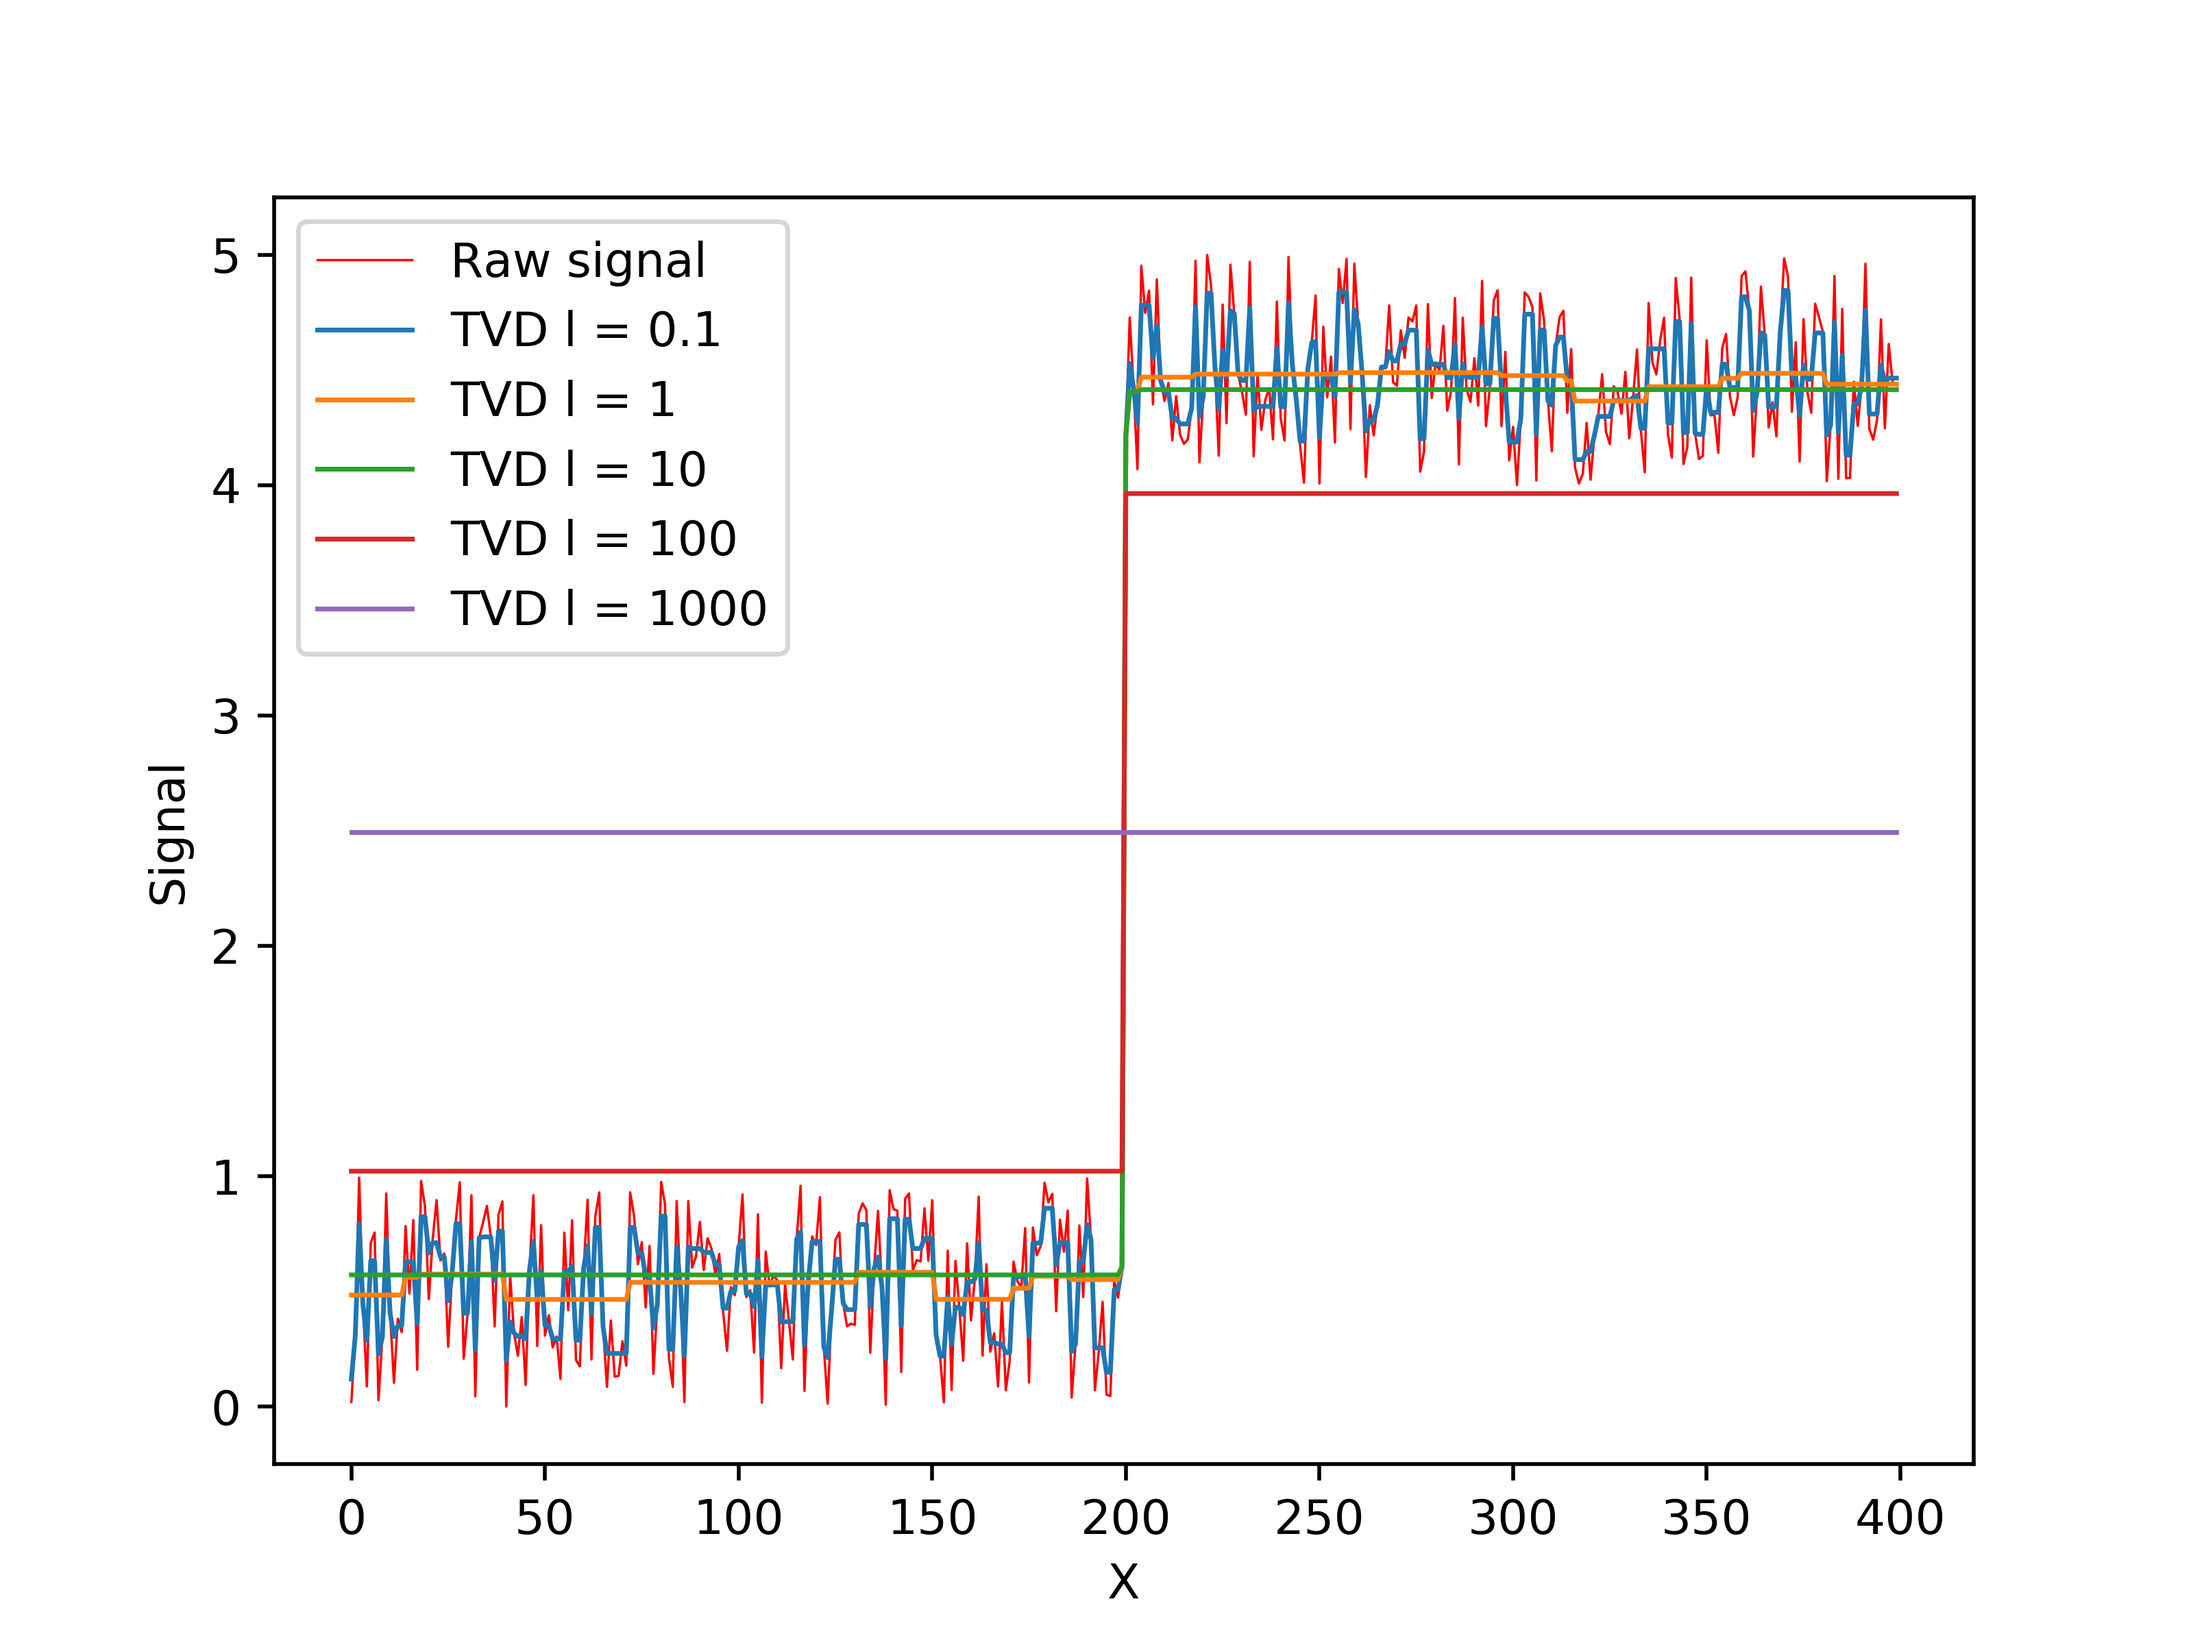
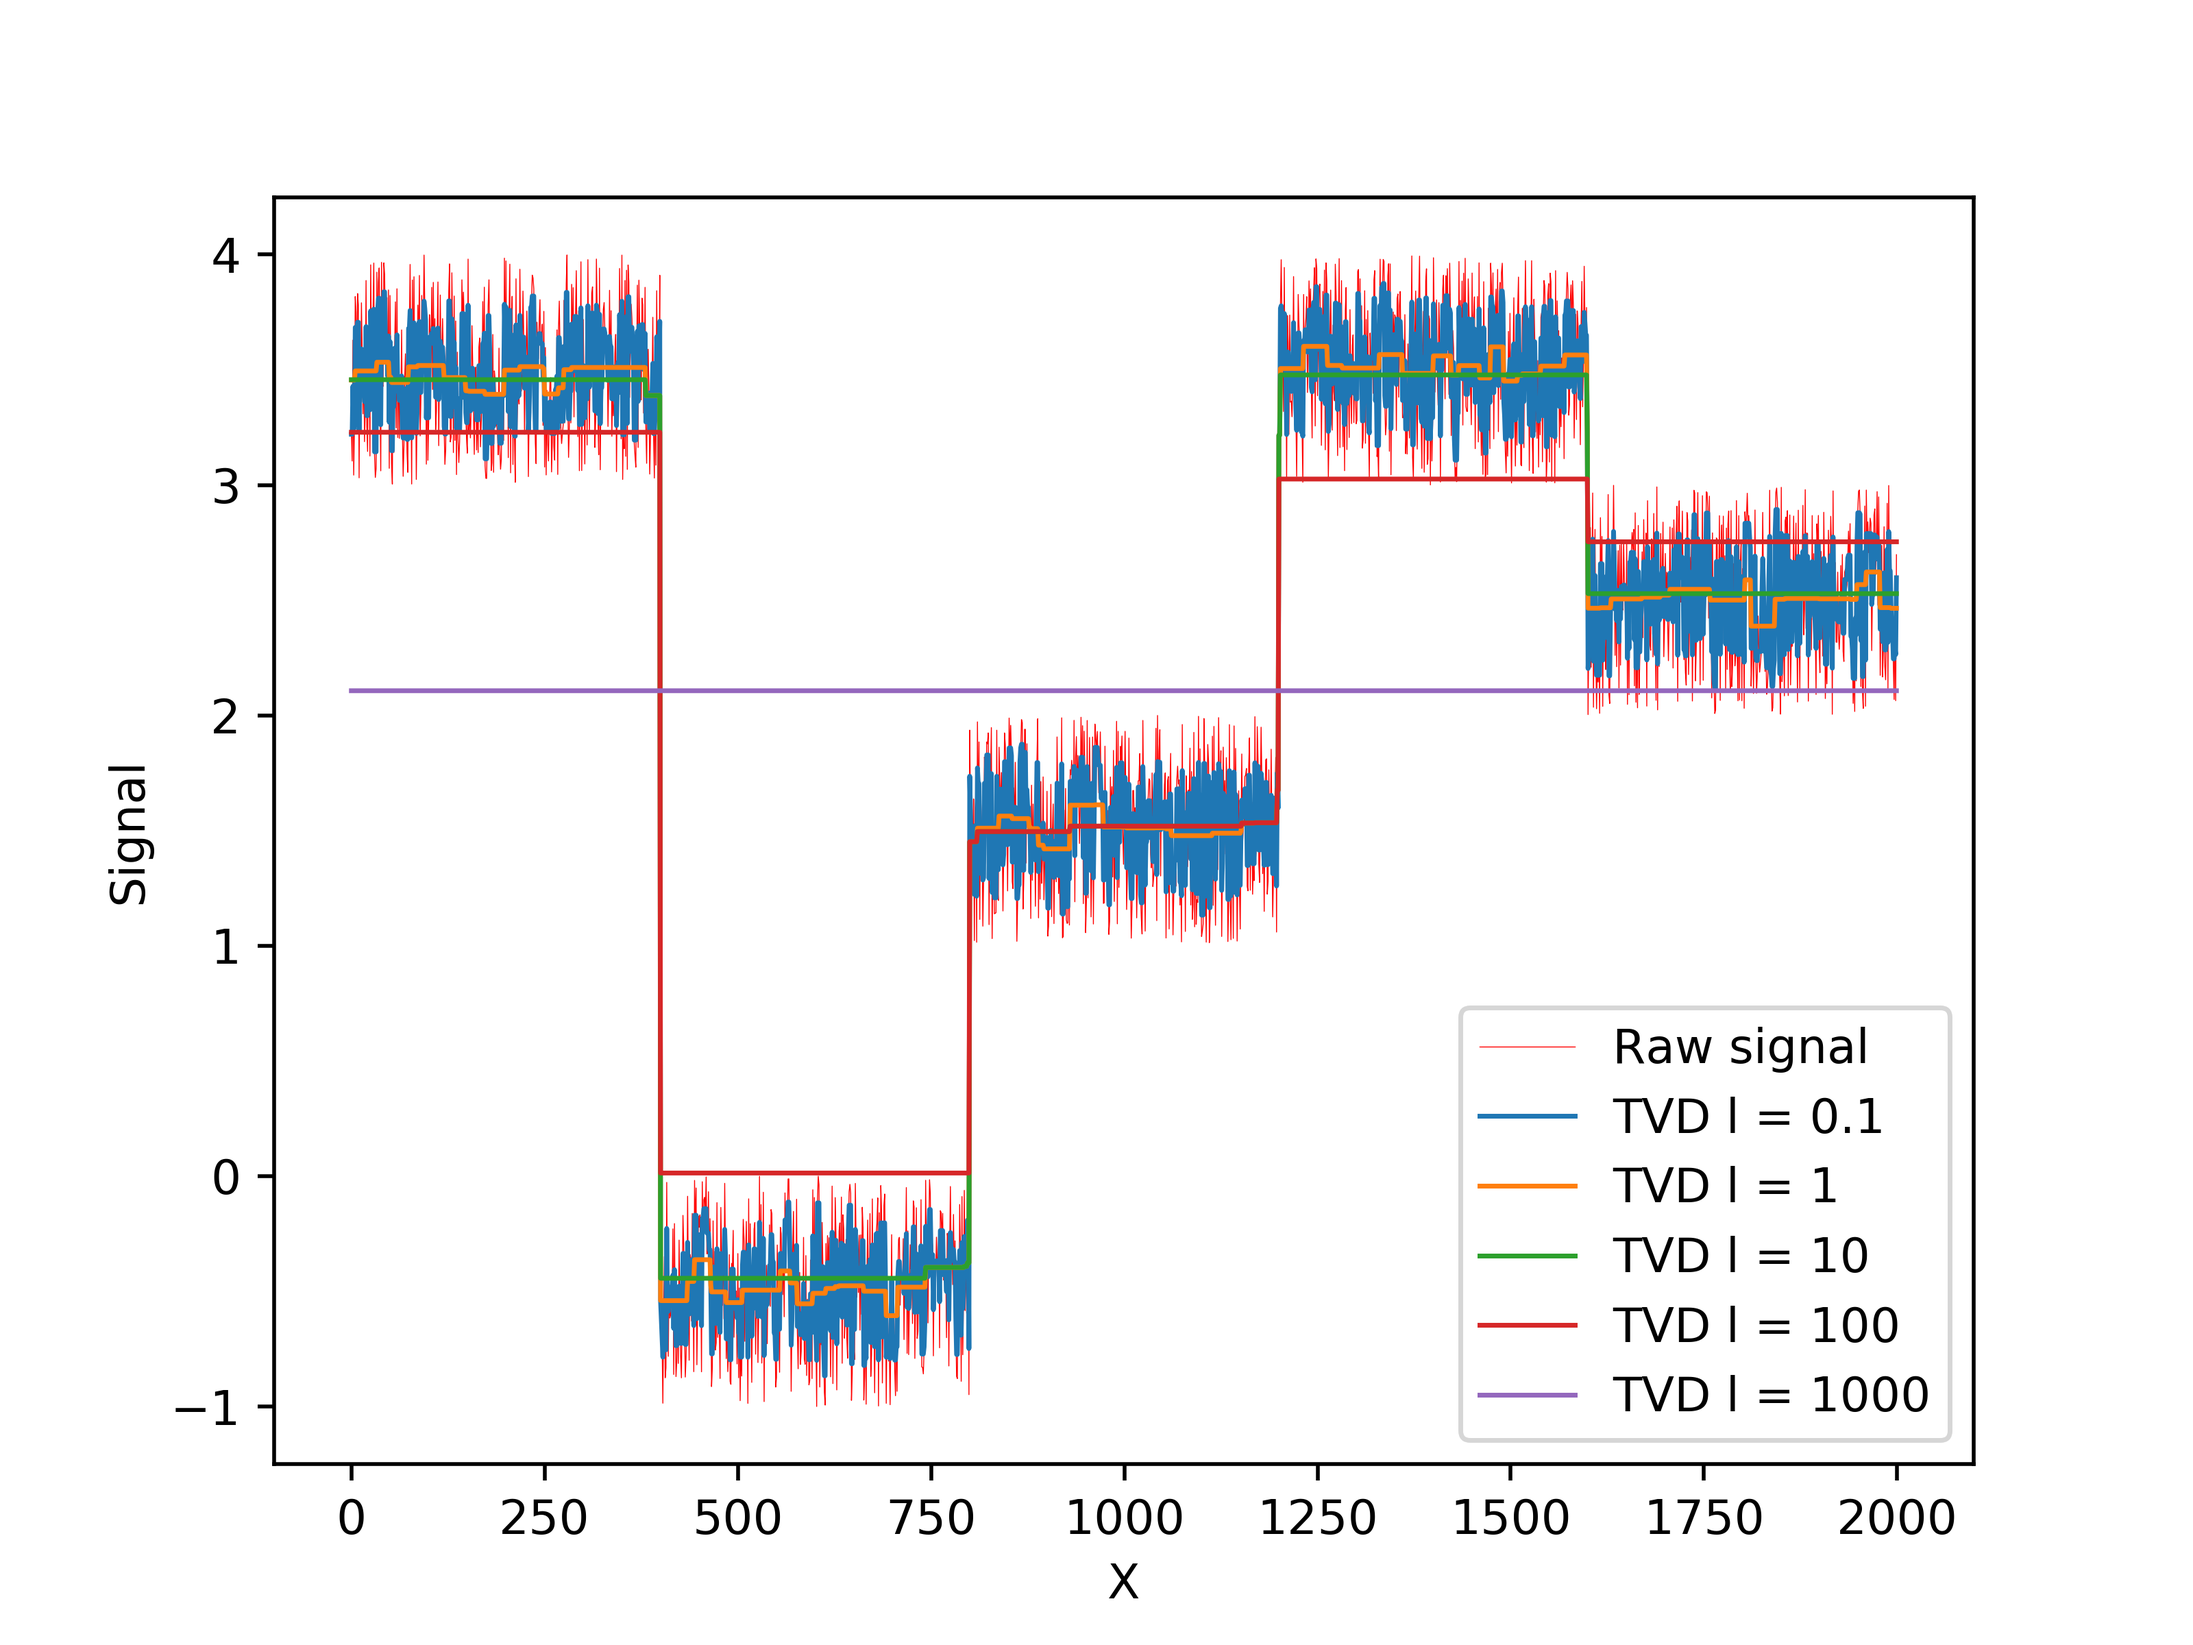
Adapting the example

diff --git a/examples/example_readme.py b/examples/example_readme.py
@@ -3,16 +3,17 @@ from TVDCondat2013 import TVD
 from matplotlib import pyplot as plt
 
 
-# Generating 2 segments of a noisy signal
-size_segment = 200
-A = np.random.rand(size_segment)
-B = np.random.rand(size_segment)
-B = B + 4
-C = np.concatenate((A,B))
+# Generating n segments of a noisy signal
+size_segment = 400
+n_segments = 5
+C = np.random.rand(size_segment) + np.random.randint(-5,5)
+for d in range(n_segments-1):
+	A = np.random.rand(size_segment) + np.random.randint(-5,5)
+	C = np.concatenate((C,A))
 
-X = np.arange(2*size_segment)
+X = np.arange(n_segments*size_segment)
 
-plt.plot(X,C,color= 'r', lw = 0.5, zorder = 1, label= "Raw signal")
+plt.plot(X,C,color= 'r', lw = 0.2, zorder = 1, label= "Raw signal")
 
 # Setting the regulation parameters
 lambda_TVD = [0.1,1,10,100,1000]

diff --git a/README.md b/README.md
@@ -6,7 +6,7 @@ TVDCondat2013 is a python portage of the 1D Total Variation Denoising algorithm 
 The `c++` core code has been adapted from `C` version available on the website of the manuscript orignal authors: http://www.gipsa-lab.grenoble-inp.fr/~laurent.condat/publications.html
 *Cite it if you use it.*
 
-This mostly to train myself packging a python package from `c++` but also it is a really useful and efficient algorithm for:
+This package is mostly to train myself packging a python package from `c++` but also it is a really useful and efficient algorithm for:
 - Direct denoising for data that can be represented by flat segments
 - Indirect curve denoising using a detrend-denoise-retrend approach (Not implemented yet)
 
@@ -23,7 +23,7 @@ from TVDCondat2013 import TVD
 # Generating 2 segments of a noisy signal
 A = np.random.rand(100)
 B = np.random.rand(100) + 4
-C = np.concatenate((B,B))
+C = np.concatenate((A,B))
 
 # Setting the regulation parameters
 lambda_TVD = 5
